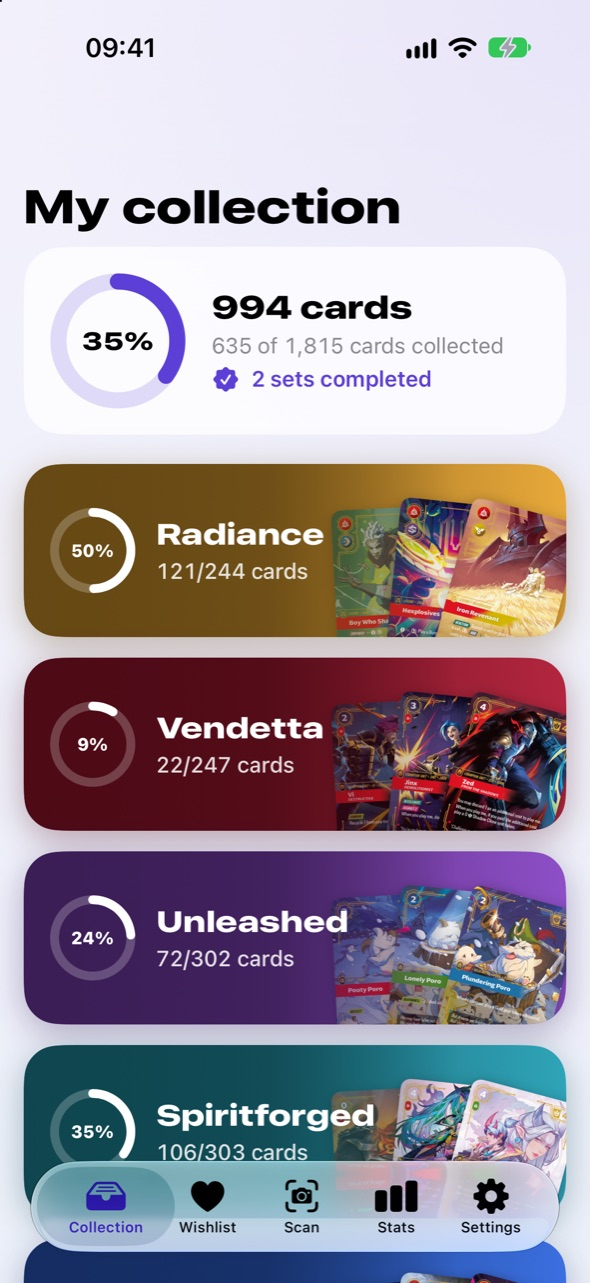
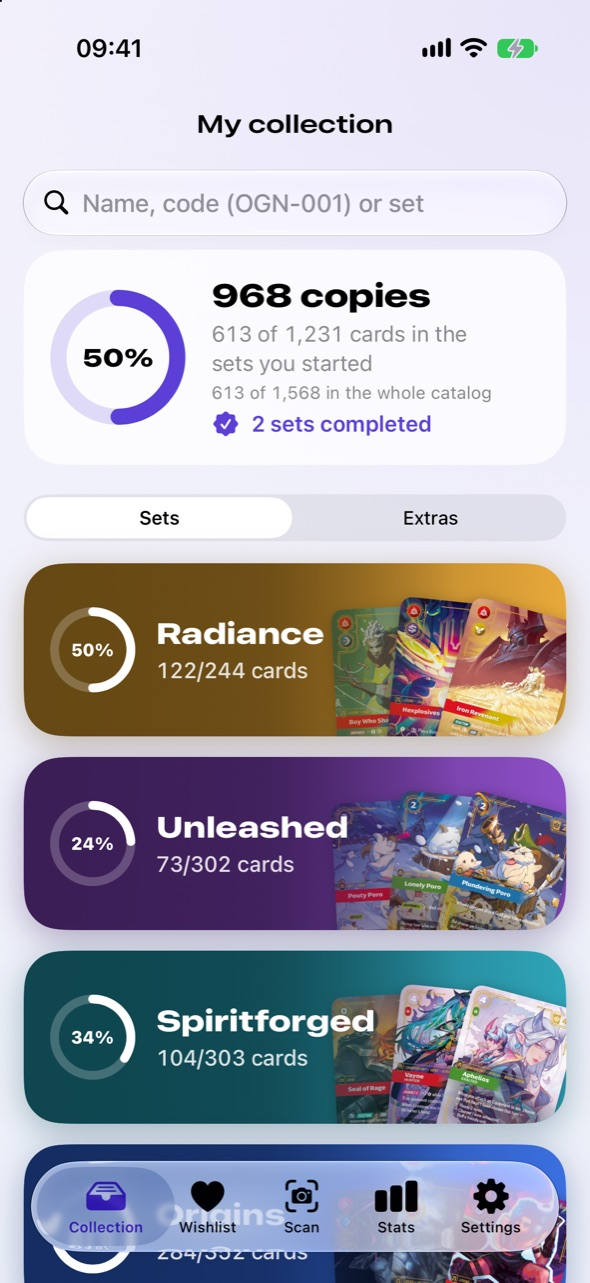
Sets and Extras tabs, followed sets, first-launch welcome; privacy policy update

diff --git a/fr/index.html b/fr/index.html
@@ -23,7 +23,7 @@
                     <span class="status">En développement · bientôt sur l'App Store (iPhone, iOS 18+)</span>
                 </div>
                 <div class="hero-shot">
-                    <img class="phone" src="../images/home-dark.jpg" alt="Accueil de RiftTracker en mode sombre : anneau de progression globale et une tuile colorée par extension Riftbound">
+                    <img class="phone" src="../images/home-dark.jpg" alt="Accueil de RiftTracker en mode sombre : anneau de progression des extensions commencées, onglets Extensions et Extras et une tuile colorée par extension Riftbound">
                 </div>
             </div>
         </div>
@@ -37,7 +37,7 @@
                 <div class="features">
                     <div class="feature">
                         <h3>Progression par extension</h3>
-                        <p>Voyez combien de cartes de chaque extension vous possédez, dans la langue que vous collectionnez, lesquelles manquent et ce qu'il en coûterait pour la compléter. Le mode master set compte à part les versions standard et foil.</p>
+                        <p>Voyez combien de cartes de chaque extension vous possédez, dans la langue que vous collectionnez, lesquelles manquent et ce qu'il en coûterait pour la compléter. Le mode master set compte à part les versions standard et foil. Les extensions principales et les extras (promos, Proving Grounds, coffrets) ont chacun leur onglet, et les extensions que vous ne suivez pas se replient.</p>
                     </div>
                     <div class="feature">
                         <h3>Vue classeur</h3>
@@ -69,8 +69,12 @@
                 <p class="section-lead">Prises sur la version en cours de développement (interface en anglais).</p>
                 <div class="gallery">
                     <figure>
-                        <img class="phone" src="../images/collection.jpg" alt="Écran Collection avec l'anneau de progression globale et une tuile par extension" loading="lazy">
-                        <figcaption><strong>Toutes vos extensions</strong>La progression globale, puis chaque extension avec sa couleur, les plus récentes en premier.</figcaption>
+                        <img class="phone" src="../images/collection.jpg" alt="Écran Collection avec l'anneau de progression des extensions commencées, les onglets Extensions et Extras et une tuile par extension" loading="lazy">
+                        <figcaption><strong>Toutes vos extensions</strong>Votre progression dans les extensions commencées, puis chaque extension avec sa couleur ; les extras dans leur onglet.</figcaption>
+                    </figure>
+                    <figure>
+                        <img class="phone" src="../images/onboarding.jpg" alt="Écran du premier lancement listant les extensions à suivre, avec une case par extension et par extra" loading="lazy">
+                        <figcaption><strong>Premier lancement</strong>Quelques questions pendant le téléchargement du catalogue : langue des cartes, prix, façon de collectionner et extensions suivies.</figcaption>
                     </figure>
                     <figure>
                         <img class="phone" src="../images/set.jpg" alt="Détail d'une extension avec un en-tête coloré (progression et valeur) puis la liste des cartes" loading="lazy">
@@ -96,10 +100,6 @@
                         <img class="phone" src="../images/stats.jpg" alt="Statistiques avec la valeur de la collection sur 30 jours et un podium des trois cartes les plus chères" loading="lazy">
                         <figcaption><strong>Statistiques</strong>L'évolution de la valeur de votre collection et vos trois cartes les plus chères.</figcaption>
                     </figure>
-                    <figure>
-                        <img class="phone" src="../images/share.jpg" alt="Image de progression à partager" loading="lazy">
-                        <figcaption><strong>Image de progression</strong>Une image à partager de votre progression.</figcaption>
-                    </figure>
                 </div>
             </div>
         </section>
@@ -109,7 +109,7 @@
                 <h2>Comment ça marche</h2>
                 <p class="section-lead">Le parcours habituel.</p>
                 <ol class="flow">
-                    <li>Au premier lancement, l'app télécharge le catalogue des cartes Riftbound, puis fonctionne hors ligne.</li>
+                    <li>Au premier lancement, un court accueil demande la langue des cartes, la source des prix, la façon de collectionner et les extensions suivies, pendant que l'app télécharge le catalogue des cartes Riftbound. Elle fonctionne ensuite hors ligne.</li>
                     <li>Le joueur ouvre une extension et ajoute les cartes qu'il possède, depuis la liste, le classeur, la recherche ou le scanner.</li>
                     <li>Pour chaque carte, il choisit la version (standard ou foil), l'état, la langue et la quantité.</li>
                     <li>L'app affiche la progression par extension, la valeur de la collection et les variations de prix de la semaine.</li>

diff --git a/index.html b/index.html
@@ -23,7 +23,7 @@
                     <span class="status">In development · coming to the App Store (iPhone, iOS 18+)</span>
                 </div>
                 <div class="hero-shot">
-                    <img class="phone" src="images/home-dark.jpg" alt="RiftTracker home screen in dark mode: overall completion ring and a colored tile for each Riftbound set">
+                    <img class="phone" src="images/home-dark.jpg" alt="RiftTracker home screen in dark mode: completion ring of the sets you started, Sets and Extras tabs and a colored tile for each Riftbound set">
                 </div>
             </div>
         </div>
@@ -37,7 +37,7 @@
                 <div class="features">
                     <div class="feature">
                         <h3>Set completion</h3>
-                        <p>See how many cards of each set you own, in the language you collect, which ones are missing and what it would cost to finish the set. An optional master set mode counts standard and foil versions separately.</p>
+                        <p>See how many cards of each set you own, in the language you collect, which ones are missing and what it would cost to finish the set. An optional master set mode counts standard and foil versions separately. Main sets and extras (promos, Proving Grounds, box sets) have their own tabs, and the sets you don't follow fold away.</p>
                     </div>
                     <div class="feature">
                         <h3>Binder view</h3>
@@ -69,8 +69,12 @@
                 <p class="section-lead">Captured from the current development build.</p>
                 <div class="gallery">
                     <figure>
-                        <img class="phone" src="images/collection.jpg" alt="Collection screen with the overall completion ring and a tile for each set" loading="lazy">
-                        <figcaption><strong>All your sets</strong>Overall completion, then each set in its own color, newest first.</figcaption>
+                        <img class="phone" src="images/collection.jpg" alt="Collection screen with the completion ring of the sets you started, Sets and Extras tabs and a tile for each set" loading="lazy">
+                        <figcaption><strong>All your sets</strong>Your progress in the sets you started, then each set in its own color; extras in their own tab.</figcaption>
+                    </figure>
+                    <figure>
+                        <img class="phone" src="images/onboarding.jpg" alt="First launch screen listing the sets to follow, with a checkbox for each main set and extra" loading="lazy">
+                        <figcaption><strong>First launch</strong>A few questions while the catalog downloads: card language, prices, how you collect and the sets you follow.</figcaption>
                     </figure>
                     <figure>
                         <img class="phone" src="images/set.jpg" alt="Set detail with a colored header showing completion and value, then the card list" loading="lazy">
@@ -96,10 +100,6 @@
                         <img class="phone" src="images/stats.jpg" alt="Statistics with the collection value over the last 30 days and a podium of the three most valuable cards" loading="lazy">
                         <figcaption><strong>Statistics</strong>Your collection's value over time and your three most valuable cards.</figcaption>
                     </figure>
-                    <figure>
-                        <img class="phone" src="images/share.jpg" alt="Shareable progress image for a set" loading="lazy">
-                        <figcaption><strong>Progress image</strong>A shareable picture of your set completion.</figcaption>
-                    </figure>
                 </div>
             </div>
         </section>
@@ -109,7 +109,7 @@
                 <h2>How it works</h2>
                 <p class="section-lead">The typical user flow.</p>
                 <ol class="flow">
-                    <li>On first launch, the app downloads the Riftbound card catalog, then works offline.</li>
+                    <li>On first launch, a short welcome asks for the card language, the price source, how the player collects and which sets they follow, while the app downloads the Riftbound card catalog. It then works offline.</li>
                     <li>The player opens a set and adds the cards they own, from the list, the binder, the search or the camera scanner.</li>
                     <li>For each card they choose the version (standard or foil), condition, language and quantity.</li>
                     <li>The app shows completion per set, the value of the collection and the week's price changes.</li>

diff --git a/privacy.html b/privacy.html
@@ -17,7 +17,7 @@
 
     <main class="doc">
         <h1>Privacy policy</h1>
-        <p class="updated">Last updated: November 3, 2026</p>
+        <p class="updated">Last updated: November 5, 2026</p>
 
         <p>RiftTracker is an iPhone app to track a Riftbound card collection. It is designed to work without an account and without collecting personal data.</p>
 
@@ -37,11 +37,14 @@
         <h2>Network requests</h2>
         <p>To download public card and price data, the app connects to the following services. Like any web request, these services receive technical information such as your IP address; the app sends them no personal data and no information about your collection.</p>
         <ul>
-            <li>dotGG (api.dotgg.gg): card catalog, TCGplayer prices and weekly price changes.</li>
+            <li>dotGG (api.dotgg.gg, static.dotgg.gg): card catalog and artwork, TCGplayer prices and weekly price changes.</li>
             <li>Cardmarket (downloads.s3.cardmarket.com): daily price guide.</li>
-            <li>Riot Games (riftbound.leagueoflegends.com and its image servers): official card names, translations and artwork.</li>
+            <li>Riot Games (playriftbound.com): official card gallery, for French card names.</li>
         </ul>
         <p>Their own privacy policies apply to these requests.</p>
+
+        <h2>Keeping and deleting your data</h2>
+        <p>Your data stays on your iPhone for as long as the app is installed. Settings › Clear collection removes your collection; deleting the app removes everything it stored (collection, wishlist, catalog, image cache, price history). Backup files you exported stay where you saved them until you delete them.</p>
 
         <h2>Children</h2>
         <p>RiftTracker does not collect any data, including from children.</p>
@@ -56,7 +59,7 @@
 
         <div lang="fr">
             <h1>Politique de confidentialité</h1>
-            <p class="updated">Dernière mise à jour : 3 novembre 2026</p>
+            <p class="updated">Dernière mise à jour : 5 novembre 2026</p>
 
             <p>RiftTracker est une app iPhone pour suivre une collection de cartes Riftbound. Elle fonctionne sans compte et sans collecte de données personnelles.</p>
 
@@ -76,11 +79,14 @@
             <h2>Connexions réseau</h2>
             <p>Pour télécharger des données publiques sur les cartes et les prix, l'app se connecte aux services suivants. Comme pour toute requête web, ils reçoivent des informations techniques telles que votre adresse IP ; l'app ne leur envoie aucune donnée personnelle ni aucune information sur votre collection.</p>
             <ul>
-                <li>dotGG (api.dotgg.gg) : catalogue des cartes, prix TCGplayer et variations de la semaine.</li>
+                <li>dotGG (api.dotgg.gg, static.dotgg.gg) : catalogue et illustrations des cartes, prix TCGplayer et variations de la semaine.</li>
                 <li>Cardmarket (downloads.s3.cardmarket.com) : guide des prix quotidien.</li>
-                <li>Riot Games (riftbound.leagueoflegends.com et ses serveurs d'images) : noms officiels, traductions et illustrations des cartes.</li>
+                <li>Riot Games (playriftbound.com) : galerie officielle des cartes, pour les noms français.</li>
             </ul>
             <p>Leurs propres politiques de confidentialité s'appliquent à ces requêtes.</p>
+
+            <h2>Conservation et suppression de vos données</h2>
+            <p>Vos données restent sur votre iPhone tant que l'app est installée. Réglages › Effacer la collection supprime votre collection ; supprimer l'app efface tout ce qu'elle a enregistré (collection, liste de souhaits, catalogue, cache des images, historique des prix). Les sauvegardes que vous avez exportées restent là où vous les avez enregistrées, jusqu'à ce que vous les supprimiez.</p>
 
             <h2>Enfants</h2>
             <p>RiftTracker ne collecte aucune donnée, y compris auprès des enfants.</p>
